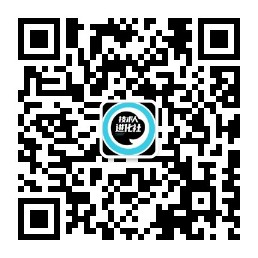
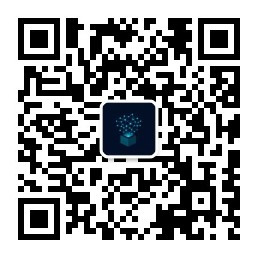
Add files via upload

Changed region(s): [[0.3721, 0.3721, 0.6202, 0.6202]]

diff --git a/index.html b/index.html
@@ -351,6 +351,39 @@
             border-color: var(--accent);
         }
 
+        /* ===== 公众号二维码 ===== */
+        .qr-corner {
+            position: fixed;
+            top: 60px;
+            right: 20px;
+            z-index: 999;
+            background: var(--card-bg);
+            border: 1px solid var(--border);
+            border-radius: 8px;
+            padding: 10px;
+            text-align: center;
+            transition: border-color .25s, box-shadow .25s;
+        }
+
+        .qr-corner:hover {
+            border-color: var(--accent);
+            box-shadow: 0 4px 12px rgba(0,0,0,.3);
+        }
+
+        .qr-corner img {
+            display: block;
+            width: 96px;
+            height: 96px;
+            border-radius: 4px;
+        }
+
+        .qr-corner .qr-label {
+            display: block;
+            margin-top: 6px;
+            font-size: 11px;
+            color: var(--text-muted);
+        }
+
         /* ===== 回到顶部 ===== */
         .back-to-top {
             position: fixed;
@@ -454,6 +487,17 @@
                 width: 40px;
                 height: 40px;
             }
+
+            .qr-corner {
+                top: 52px;
+                right: 12px;
+                padding: 8px;
+            }
+
+            .qr-corner img {
+                width: 72px;
+                height: 72px;
+            }
         }
     </style>
 </head>
@@ -464,6 +508,12 @@
         <a href="index.html" class="active">首页</a>
         <a href="TEA.html">可控可信企业智能体白皮书</a>
     </nav>
+
+    <!-- ===== 公众号二维码 ===== -->
+    <div class="qr-corner" title="关注公众号">
+        <img src="qrcode_for_gh_aaf42e03e210_258.jpg" alt="微信公众号二维码" width="96" height="96">
+        <span class="qr-label">关注公众号</span>
+    </div>
 
     <!-- ===== 全局页头 ===== -->
     <header class="site-header">
